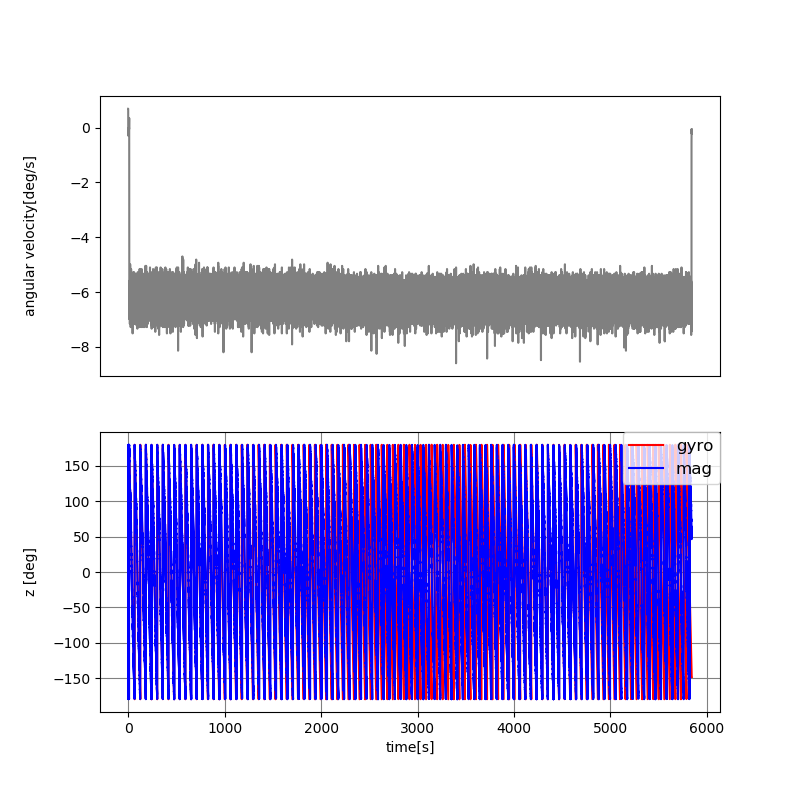
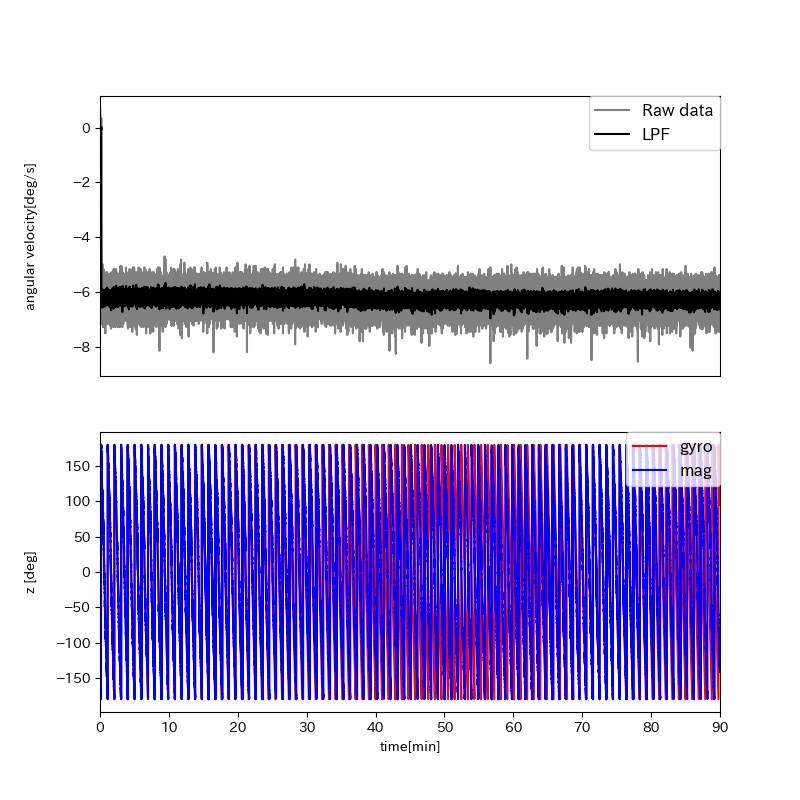
add 90min data

diff --git a/ExperimentalData/graph_rad.py b/ExperimentalData/graph_rad.py
@@ -30,6 +30,10 @@ class item(IntEnum):
     pos_step_x = auto()
     pos_step_y = auto()
 
+
+start = 0
+width = 90
+
 # データの読み込み
 filename = "turnTable7"
 data = np.loadtxt("data/" + filename + ".txt", delimiter = ",", skiprows = 2, unpack = True) 
@@ -48,25 +52,25 @@ gyro_z_LPF_deg = list(map(lambda x: x * 180/np.pi, gyro_z_LPF))
 graph = fig1.add_subplot(211) 
 # graph.plot(data[time],data[rad_vel_x] * 180/np.pi, color="red", label = "x")
 # graph.plot(data[time],data[rad_vel_y] * 180/np.pi, color="blue", label = "y")
-graph.plot(data[item.time], data[item.rad_vel_z]*180/np.pi, color="gray", label = "Raw data")
+graph.plot(data[item.time]/60, data[item.rad_vel_z]*180/np.pi, color="gray", label = "Raw data")
 # graph.plot(data[item.time], gyro_z_LPF, color="black", label = "z")
-graph.plot(data[item.time], gyro_z_LPF_deg, color="black", label = "LPF")
+graph.plot(data[item.time]/60, gyro_z_LPF_deg, color="black", label = "LPF")
 plt.tick_params(labelbottom=False, bottom=False)
 graph.set_ylabel("angular velocity[deg/s]")
 graph.yaxis.set_label_coords(-0.1, 0.5)
 plt.legend(bbox_to_anchor=(1, 1), loc="upper right", borderaxespad=0, fontsize=12)
-# plt.xlim(0,60)
-# plt.ylim(-0.13,0.13)
+plt.xlim(start, start+width)
 
 graph = fig1.add_subplot(212)
-graph.plot(data[item.time], data[item.rad_gyro_z]*180/np.pi, color="red", label = "gyro")
-graph.plot(data[item.time], data[item.rad_mag_z]*180/np.pi, color="blue", label = "mag")
-# graph.plot(data[item.time], (data[item.time]+25)*6.12%360-180, color="gray", label = "expected")
-plt.grid(color="gray")
+graph.plot(data[item.time]/60, data[item.rad_gyro_z]*180/np.pi, color="red", label = "gyro")
+graph.plot(data[item.time]/60, data[item.rad_mag_z]*180/np.pi, color="blue", label = "mag")
+# graph.plot(data[item.time]/60, -(data[item.time]-8)*6.12%360-180, color="gray", label = "expected")
+# plt.grid(color="gray")
 plt.legend(bbox_to_anchor=(1, 1), loc="upper right", borderaxespad=0, fontsize=12)
-# plt.xlim(x,x+100)
-# plt.ylim(80,130)
+plt.xlim(start, start+width)
 graph.set_ylabel("z [deg]")
 graph.yaxis.set_label_coords(-0.1, 0.5)
-graph.set_xlabel("time[s]")
+graph.set_xlabel("time[min]")
+
 plt.savefig("graph/rad/" + filename + ".png")
+# plt.show()
